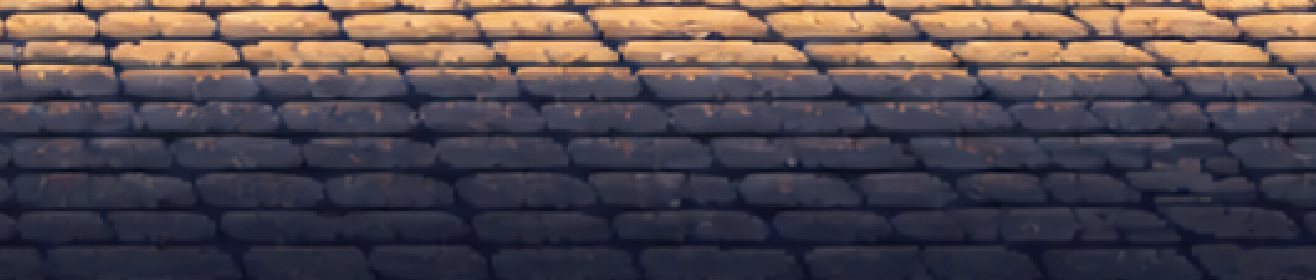
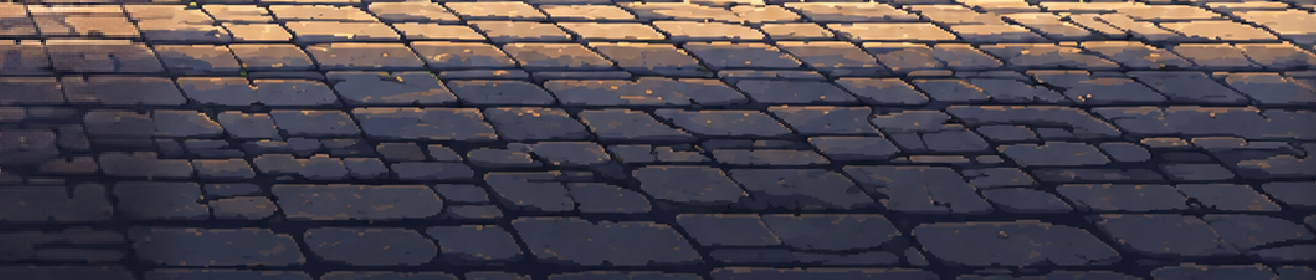
Ruelle : sol du premier décor restauré (sol-03 reconstitué à l'identique)
Le sol-03.png reçu était tronqué ; reconstitué avec la recette exacte du pack,
vérifiée pixel pour pixel sur les trois autres sols et les lignes lisibles.
Maisons à Y=-180 et parallaxes inchangées.

Claude-Session: https://claude.ai/code/session_01CVVXb3zDX1E77k8XbgHYn9

diff --git a/README.md b/README.md
@@ -80,7 +80,7 @@ Salle unique de **4 écrans de long**, un seul niveau, construite depuis le pack
 
 ## La ruelle du Louvre
 
-- `src/data/rooms/ruelle.ts` + `RuelleScene.ts` : pack « Ruelle-pack-complet » — monde de 5397 × 1448, 12 images (ciel, 3 sections de bâtiments lointains, 4 de façades, 4 de sol) placées aux coordonnées de `src/data/rooms/ruelle/manifest.json`. Correctif appliqué : bâtiments lointains remontés à Y = −180 (les trois ensemble, X et parallaxe inchangés) ; sol remplacé par la version à pavés fins (`sol-01` à `sol-04`, 280 px à Y = 1168, X = 0 / 1316 / 2633 / 3949, sans recouvrement). Sources et consignes : `assets-source/ruelle/` ; copie vers le jeu : `python tools/preparer-ruelle.py` (aucune retouche d'image).
+- `src/data/rooms/ruelle.ts` + `RuelleScene.ts` : pack « Ruelle-pack-complet » — monde de 5397 × 1448, 12 images (ciel, 3 sections de bâtiments lointains, 4 de façades, 4 de sol) placées aux coordonnées de `src/data/rooms/ruelle/manifest.json`. Correctifs appliqués : bâtiments lointains remontés à Y = −180 (les trois ensemble, X et parallaxe inchangés) ; sol restauré depuis le premier décor validé (pack « Ruelle-premier-sol-restaure » : `sol-01` à `sol-04`, 280 px à Y = 1168, X = 0 / 1316 / 2633 / 3949, sans recouvrement). Le `sol-03.png` reçu était tronqué : il a été reconstitué avec la recette exacte du pack (ancien décor 4344 px agrandi uniformément en nearest à 5397 px), vérifiée pixel pour pixel sur les trois autres sols et sur les 119 lignes lisibles du fichier reçu. Sources et consignes : `assets-source/ruelle/` ; copie vers le jeu : `python tools/preparer-ruelle.py` (aucune retouche d'image).
 - Échelle unique hauteur de vue / 1448, héros à la taille du musée, pieds à Y = 1168. Ordre : fond bleu #52ADF2, ciel, bâtiments, sol, façades, héros.
 - Parallaxe : ciel 0,15 · bâtiments lointains 0,65 · sol et façades 1 (collisions, porte et interactions dans le repère du monde). Un facteur et un repère communs par couche ; la couverture est vérifiée au chargement (avertissement en console).
 - Les images sont chargées à l'entrée de la scène et libérées à sa sortie (mémoire).
